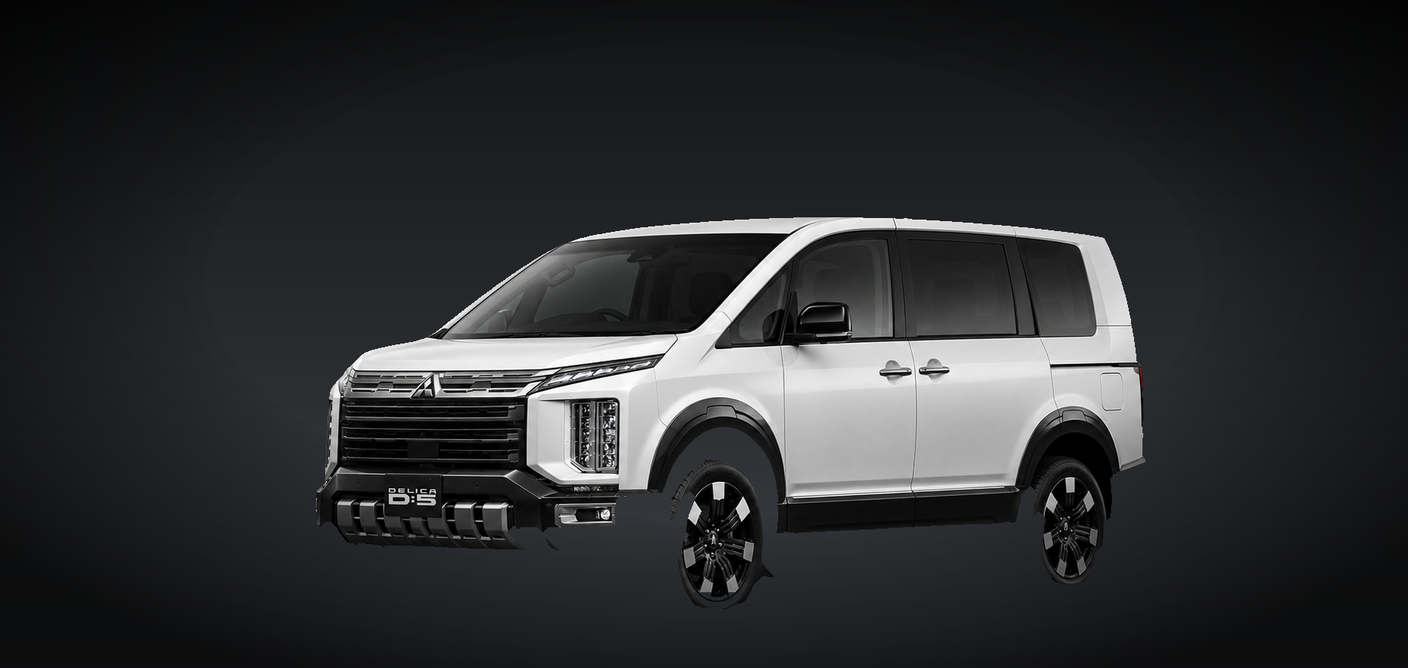
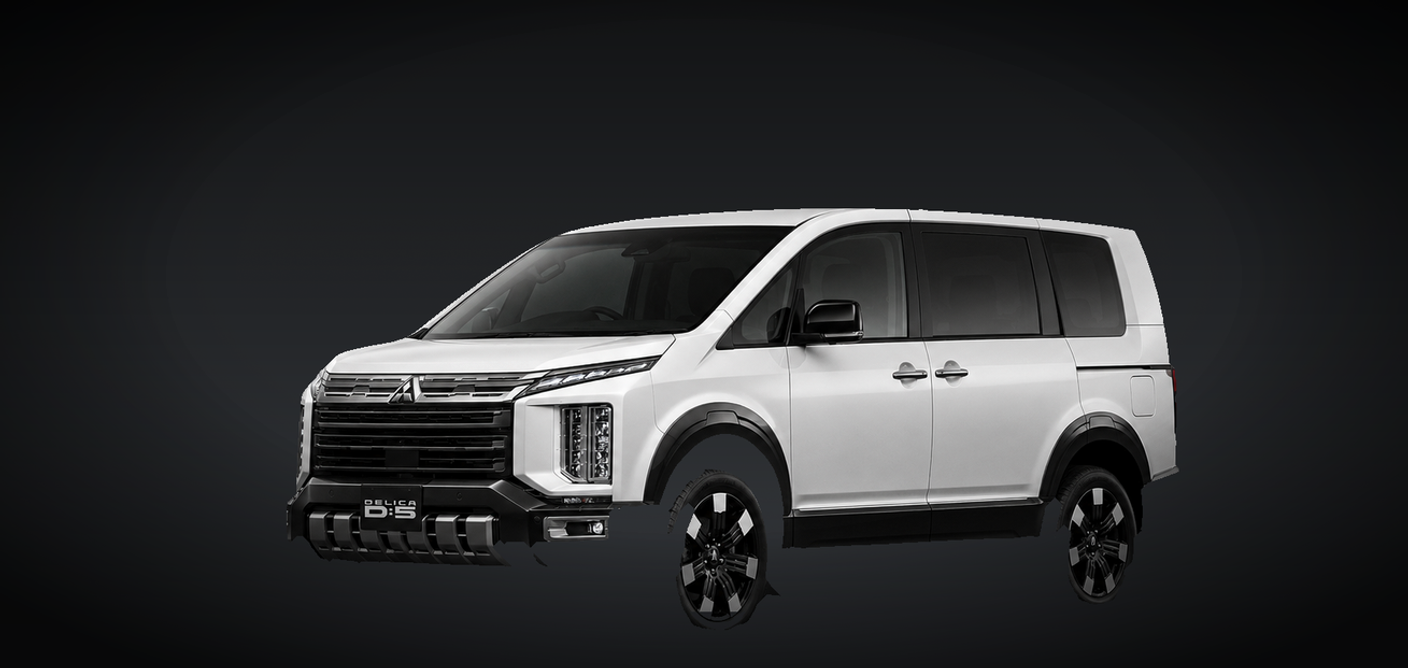
fix: studio-consistency polish for Delica/Solio/Sienta per UI review
- Delica Hero: deeper vignette + subtle grain to cut the "too-clean
  real product photo" read next to VOXY/SERENA's AI-generated
  atmosphere, plus a 7% zoom crop so the car reads larger on Home's
  card (same file backs both).
- Sienta/Solio Hero: matching vignette+grain pass so all three new
  vehicles' Home cards read closer to the established tone.
- Delica gen1/gen2 photos: brightness-normalized toward their shared
  mean (gen1 was ~12% brighter than gen2) so Compare's base/overlay
  read as the same lighting setup instead of two different shoots.
- Delica gen2 "シャープに切れ上がるヘッドライト" annotation: moved
  from y:30 to y:24 and aligned labelX to x, shortening and
  straightening a leader line that read too long.

Changed region(s): [[0.1875, 0.2994, 0.8438, 0.9281], [0.4375, 0.3892, 0.4688, 0.4491]]

diff --git a/src/cars/delica-d5.js b/src/cars/delica-d5.js
@@ -48,7 +48,7 @@ const generations = [
     image: '/images/cars/delica-d5/gen2-2019.webp',
     annotations: [
       { x: 24, y: 58, label: '台形グリルとスキッドガーニッシュ', dir: 'bottom', labelX: 22 },
-      { x: 44, y: 30, label: 'シャープに切れ上がるヘッドライト', dir: 'top', labelX: 46 },
+      { x: 44, y: 24, label: 'シャープに切れ上がるヘッドライト', dir: 'top', labelX: 44 },
     ],
     // 2026年1月9日、走行性能を中心とした一部改良を実施(フルモデル
     // チェンジではない)。
